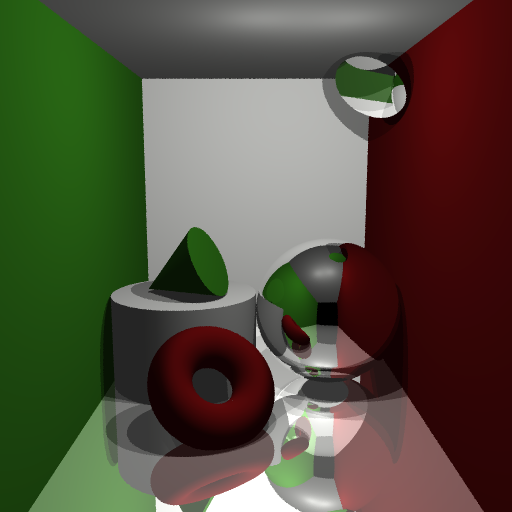
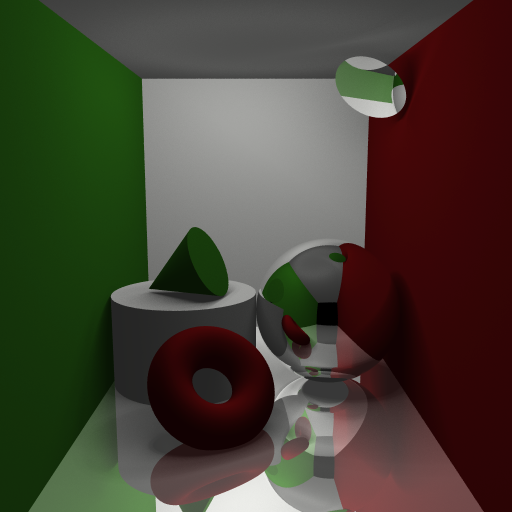
Update prim.512.png with soft shadows

diff --git a/index.html b/index.html
@@ -138,7 +138,7 @@
           <p class="lead">Implemented extra primitives such as cones, cylinders, discs and torus'.</p>
         </div>
         <div class="col-md-5">
-          <img class="featurette-image img-responsive center-block" src="images/prim.ss.512.png" alt="Extra primitives">
+          <img class="featurette-image img-responsive center-block" src="images/prim.512.png" alt="Extra primitives">
         </div>
       </div>
 
